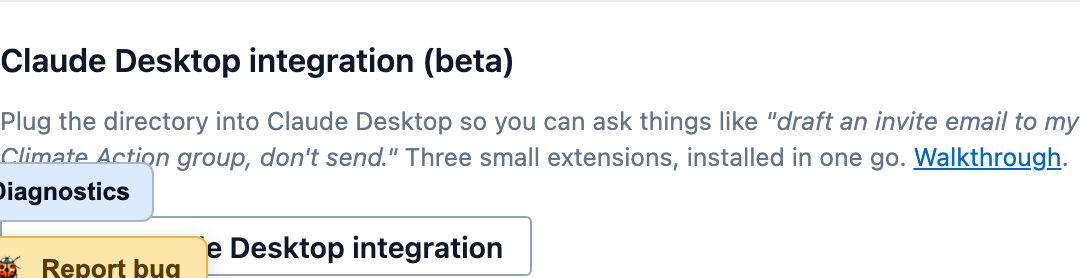
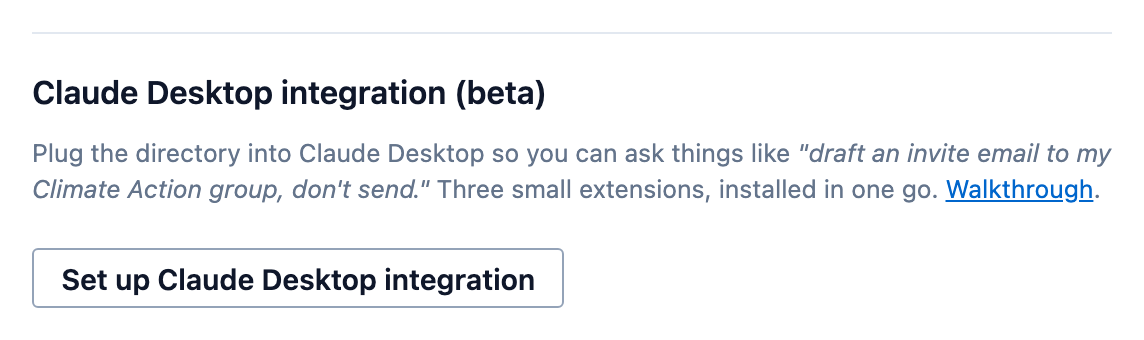
docs(explainers): review fixes — clean x1 crop, drop redundant x3, show the Return-to-PNA control
- x1 recaptured without the floating Diagnostics/Report-bug pills over the
  setup button (the app's strict CSP blocks injected <style>, which is why
  the first hide attempt failed — CSSOM style assignment works) and with the
  full section in frame.
- x3 (checked-box variant of the consent dialog) removed; the tick is
  described in text — one dialog screenshot carries the point.
- Part 5 now SHOWS the active "Return to PNA mode" button (new x7a: strength
  profile with the control directly beneath it, banner still up), before the
  post-return state. The control lives at the bottom of the explainer's
  internally-scrolling pane, which is why the original full-page shot missed it.

diff --git a/docs/explainers/external-access-and-ai-walkthrough.md b/docs/explainers/external-access-and-ai-walkthrough.md
@@ -122,9 +122,8 @@ model** (once sent to a cloud provider, no app can guarantee what happens to it)
 are young** (the extensions are read-only and auditable, but an AI driving them can still make
 mistakes — the worst case is recoverable because they only touch two files, both restorable from
 backups). **Continue is disabled until you've scrolled the agreement to the end and ticked the
-box** — the enforced version of "please read this first":
-
-![The same dialog after scrolling and ticking: the checkbox is checked and "Continue — start downloads" is enabled.](../images/explainers/x3-consent-gate-accepted.png)
+box** — the enforced version of "please read this first". Scroll to the end, tick *I understand
+and accept these risks*, and Continue lights up.
 
 Accepting is recorded **once per install**, and it does something more interesting than just
 starting three downloads: it raises the **`EX-CLOUD-LLM` exception** — a *named* departure from
@@ -173,9 +172,14 @@ Reading it bottom-up is the fastest way to understand the design:
 
 # Part 5 — Returning to PNA mode: one click back
 
-A **Return to PNA mode** control lives on the explainer page and in Settings while the exception
-is active. Click it and the exception clears, the banner goes, and the consent gate re-arms (so
-turning the integration back on asks you all over again):
+While the exception is active, a **Return to PNA mode** control sits at the bottom of the
+explainer page (and in Settings) — directly beneath the strength profile, so the honest table and
+the way out share a screen:
+
+![The active explainer's lower half: the strength profile with the green "Return to PNA mode" button directly beneath it, the red banner still showing at the top.](../images/explainers/x7a-return-to-pna-control.png)
+
+Click it and the exception clears, the banner goes, and the consent gate re-arms (so turning the
+integration back on asks you all over again):
 
 ![After returning: the explainer shows "Not currently active — this app is in PNA (local-only) mode" and the red banner is gone.](../images/explainers/x7-returned-to-pna.png)
 
